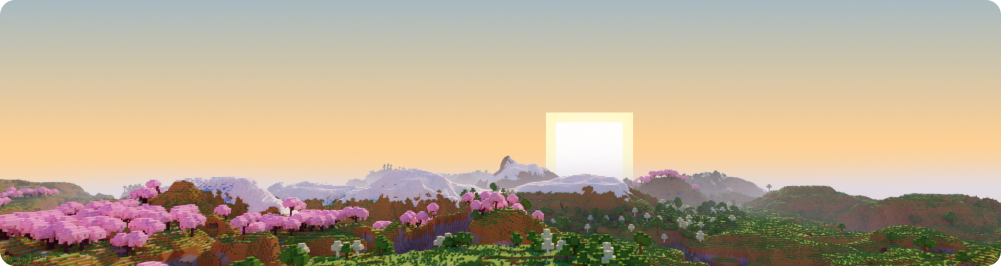
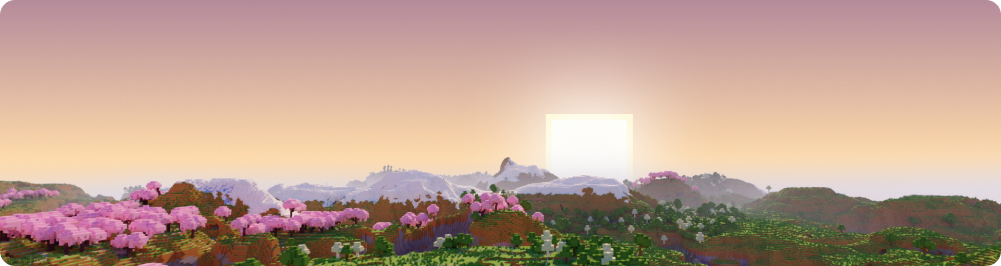
Updated Wiki

diff --git a/docs/main/index.md b/docs/main/index.md
@@ -29,7 +29,7 @@ play.minecis.net
 
 ::: details ❌ Если вашу заявку отклонили
 ![Изображение](./assets/plaksavaksa.png)
-::: details Не хочу шагать нахуй
+::: details А если не хочу?
 У Вас всё еще есть возможность повторно подать заявку через **3 дня** с момента отклонения. Вы также можете воспользоваться **Платным входом**.
 ::: tip <span style="color: #646CFF">ПОДСКАЗКА</span>
 Платный вход служит гарантией добросовестной игры. Это также помогает упростить получение доступа к серверу одновременно поддержав проект материально

diff --git a/docs/season1/index.md b/docs/season1/index.md
@@ -3,7 +3,7 @@ title: 1 сезон
 next: false
 ---
 
-![Изображение](./assets/headimg.png)
+![Изображение](./assets/fullimg.png)
 
 # ПЕРВЫЙ СЕЗОН
 
